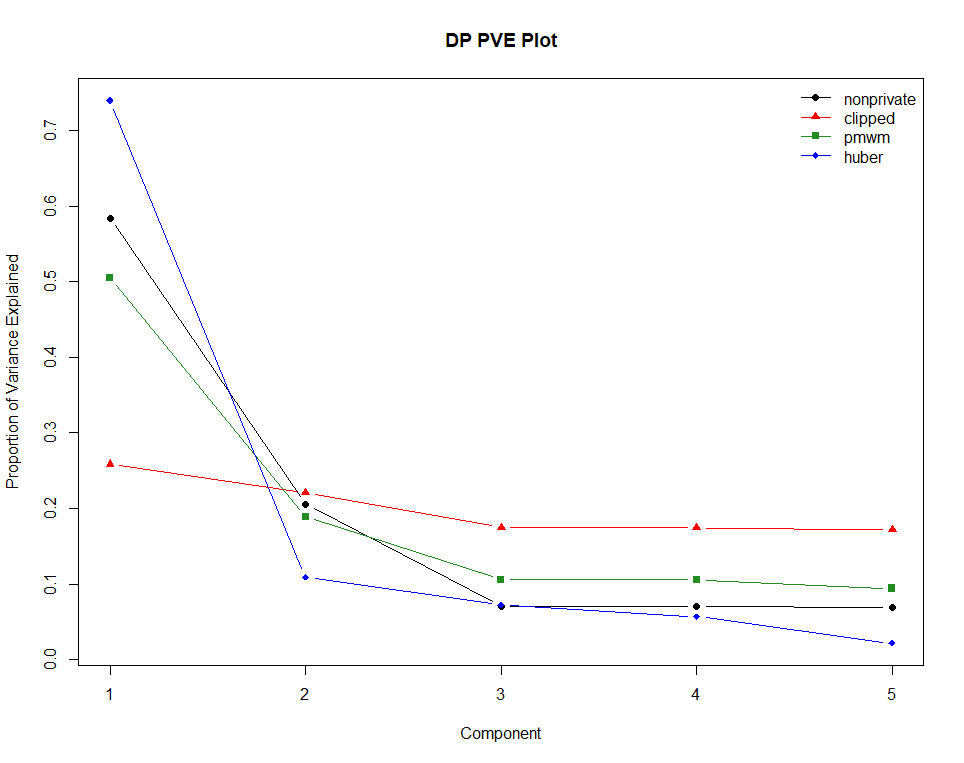
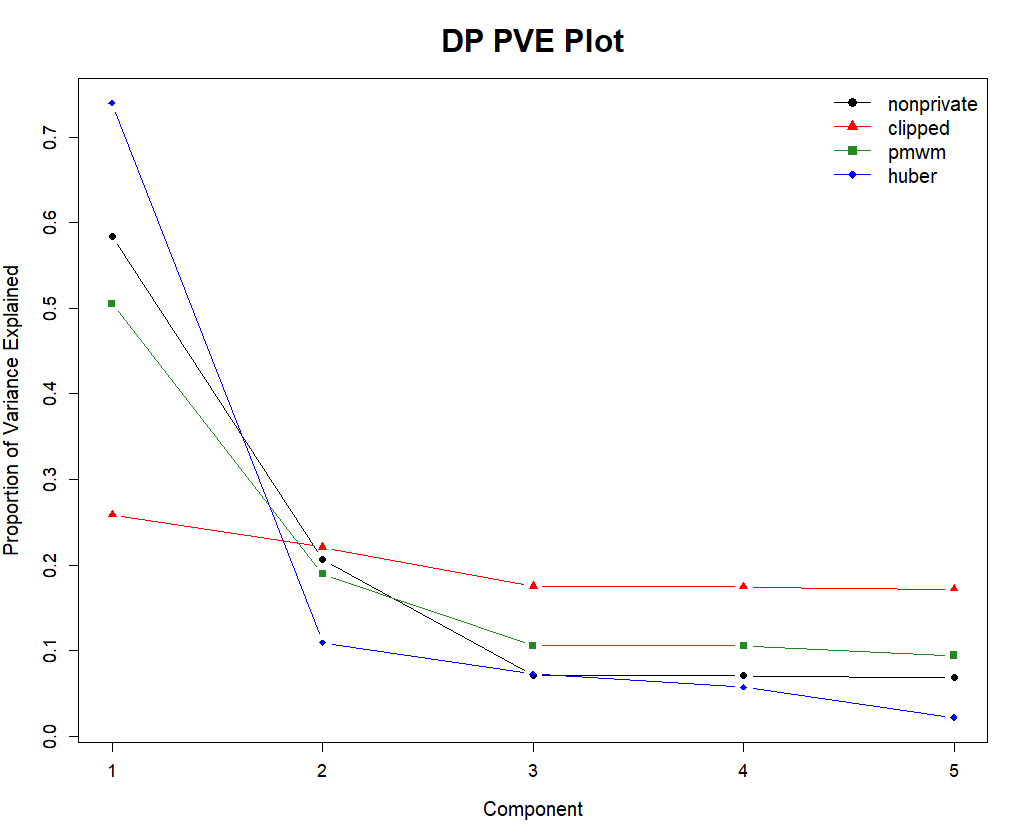
Change the figures in README.md

diff --git a/README.md b/README.md
@@ -169,7 +169,7 @@ score_plot <- dp_score_plot(
   bins = c(15, 15)
 )
 
-score_plot
+score_plot$plot$all
 ```
 <p align="center">
   <img src="man/figures/score_plot.png" width="100%" alt="Private score plot produced by dppca">
@@ -214,7 +214,7 @@ score_group_plot <- dp_score_plot_group(
   bins = c(15, 15),
 )
 
-score_group_plot
+score_group_plot$plot$all
 ```
 
 <p align="center">